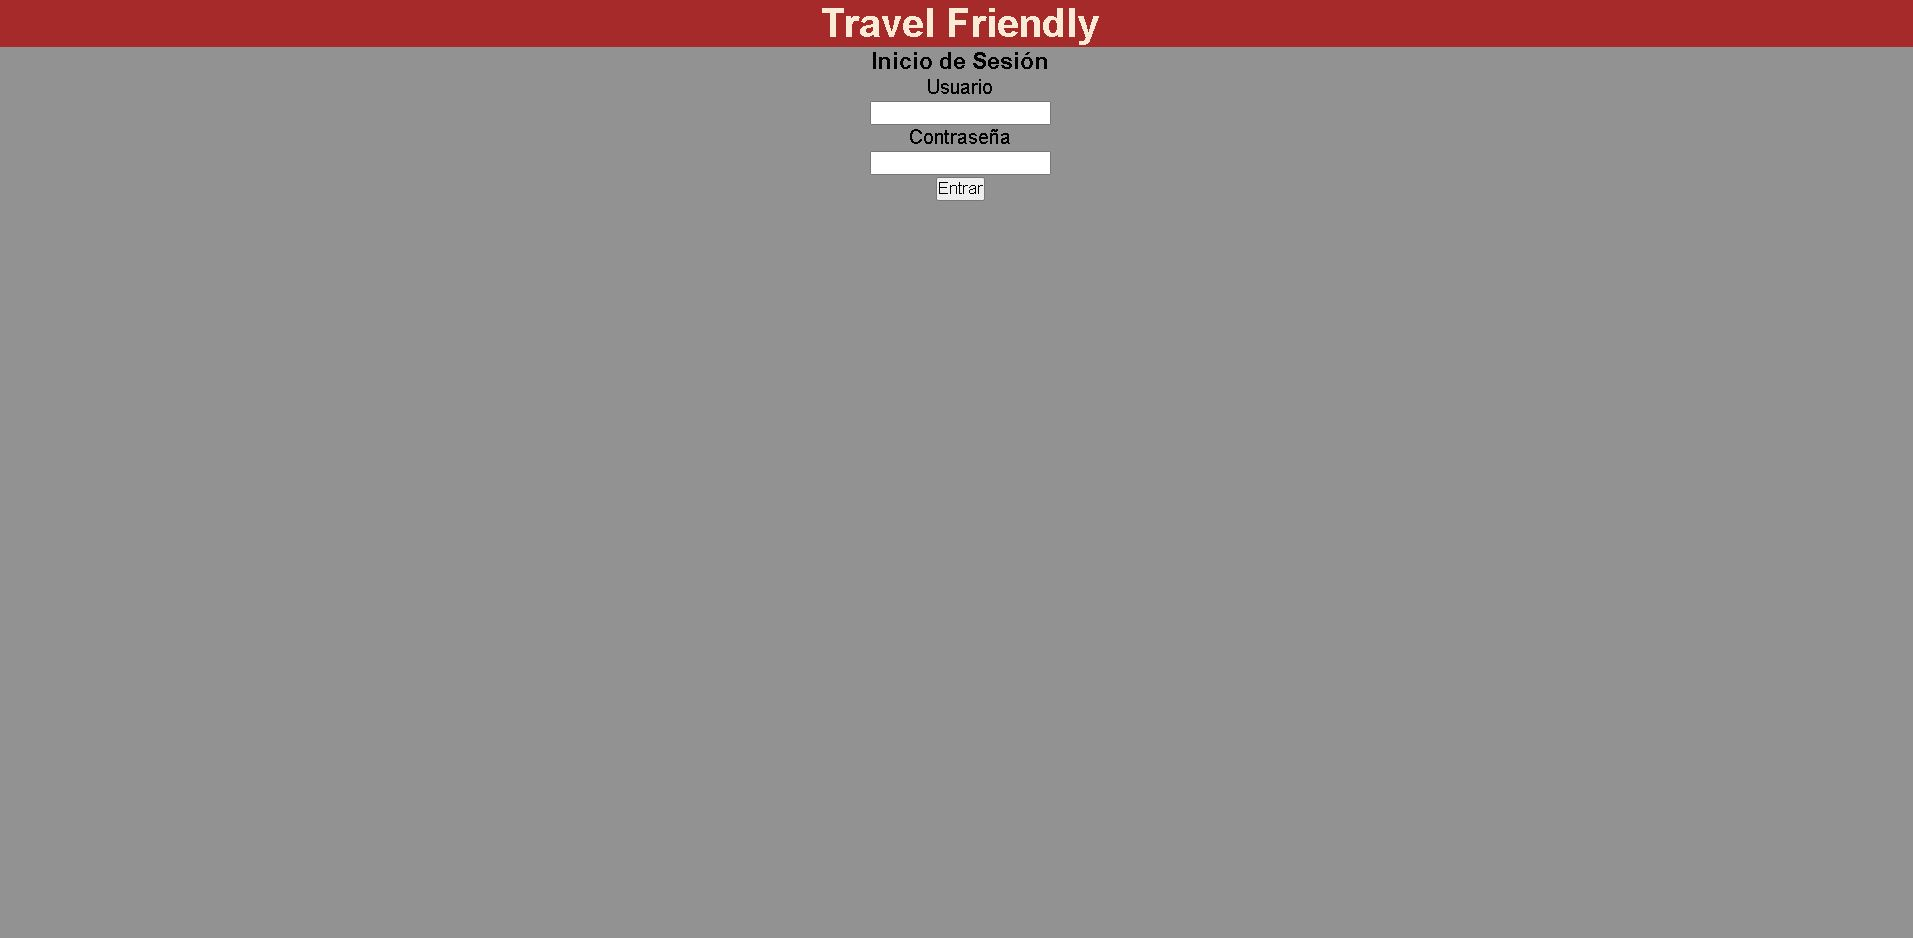
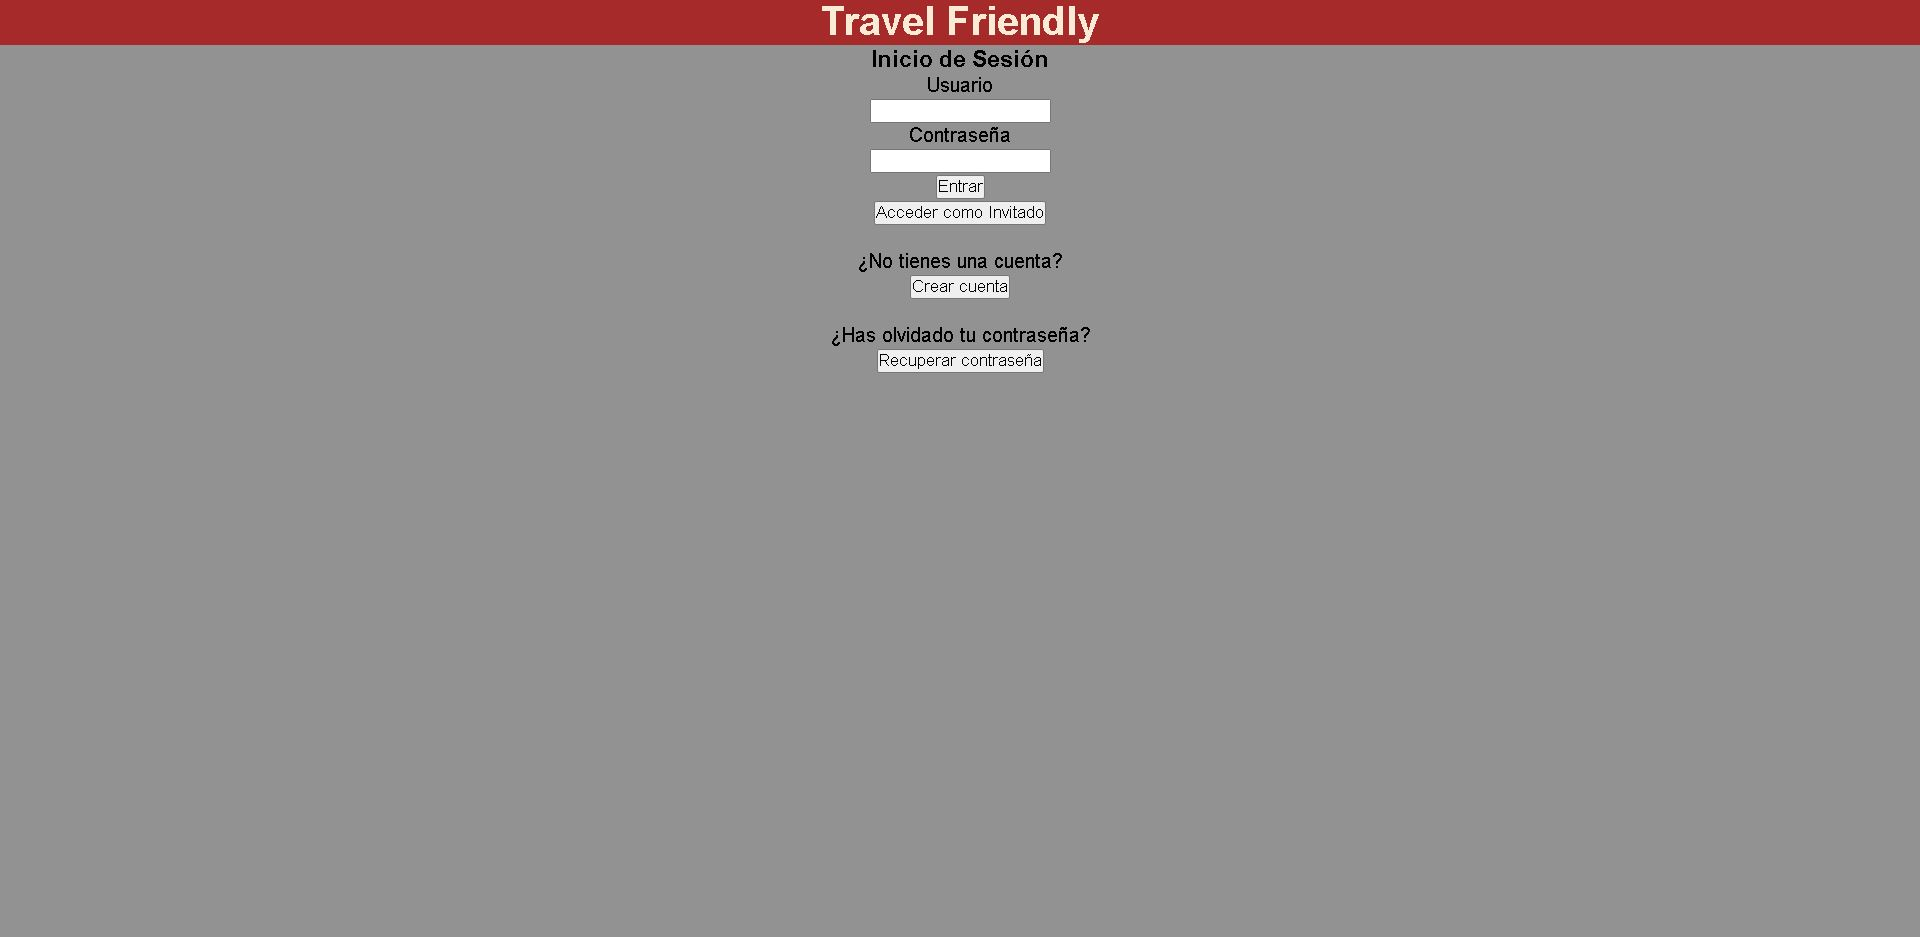
readme actualizadp

Changed region(s): [[0.0, 0.0, 1.0, 0.2476], [0.4318, 0.2785, 0.5551, 0.4023]]

diff --git a/README.md b/README.md
@@ -37,7 +37,6 @@ Funcionalidades servicio interno:
 3. Generar reserva en el historial del usuario, al adquirir un sitio en un viaje.
 4. Chat entre conductor y usuario.
 
-## Fase_2
 ### Diagrama_E-R
 ![Image Text](https://github.com/MegaTrece/DAD_TravelFriendly/blob/main/esquemas/ER.jfif)
 
@@ -47,15 +46,51 @@ Funcionalidades servicio interno:
 ### Capturas de pantalla
 ![Image_Text](https://github.com/MegaTrece/DAD_TravelFriendly/blob/main/esquemas/login.JPG)
 
-Actualmente en la fase 2, con meter un usuario y una contraseña, genera el usuario para navegar por la app (y lo guarda en la BD).
+Ya en la fase 3, se necesita hacer log in para utilizar la aplicación. También se da la opción de entrar en modo invitado, crear una cuenta y recuperarla
 
 ![Image_Text](https://github.com/MegaTrece/DAD_TravelFriendly/blob/main/esquemas/main.JPG)
 
 Es una página de bienvenida, la aplicación saluda usando el nombre del usuario.
 
+![Image_Text](https://github.com/MegaTrece/DAD_TravelFriendly/blob/main/esquemas/invitado.JPG)
+
+Se puede acceder como invitado.
+
+![Image_Text](https://github.com/MegaTrece/DAD_TravelFriendly/blob/main/esquemas/invitadoBuscador.JPG)
+
+En modo invitado, solo permite ver los viajes disponibles en el buscador, pero para comprarlo, solicitará que se inicie sesión.
+
+![Image_Text](https://github.com/MegaTrece/DAD_TravelFriendly/blob/main/esquemas/contraCorreo.JPG)
+
+Para recuperar la cuenta, se solicitará el correo con el que se inició sesión.
+
+![Image_Text](https://github.com/MegaTrece/DAD_TravelFriendly/blob/main/esquemas/contraCodigo.JPG)
+
+Después, se solicitará el código de recuperación que se ha mandado al correo.
+
+![Image_Text](https://github.com/MegaTrece/DAD_TravelFriendly/blob/main/esquemas/correoContra.JPG)
+
+Este es el correo de recuperación.
+
+![Image_Text](https://github.com/MegaTrece/DAD_TravelFriendly/blob/main/esquemas/contraNueva.JPG)
+
+Si el correo es correcto, se pide insertar una nueva contraseña.
+
 ![Image_Text](https://github.com/MegaTrece/DAD_TravelFriendly/blob/main/esquemas/buscador.JPG)
 
 Permite buscar viajes publicados en la web (por lo que están almacenados en la BD) y comprar un sitio en ese viaje.
+
+![Image_Text](https://github.com/MegaTrece/DAD_TravelFriendly/blob/main/esquemas/correoViaje.JPG)
+
+Ahora, al comprar un viaje, se envía un correo con los detalles del viaje.
+
+![Image_Text](https://github.com/MegaTrece/DAD_TravelFriendly/blob/main/esquemas/descargarPDF.JPG)
+
+Es una página de bienvenida, la aplicación saluda usando el nombre del usuario.
+
+![Image_Text](https://github.com/MegaTrece/DAD_TravelFriendly/blob/main/esquemas/pdf.JPG)
+
+Este es el PDF.
 
 ![Image_Text](https://github.com/MegaTrece/DAD_TravelFriendly/blob/main/esquemas/publicar.JPG)
 
@@ -78,9 +113,15 @@ Muestra los viajes que ha publicado el usuario y los que ha comprado
 Permite publicar una opinión sobre el usuario/conductor (y guardar en la BD) que ha comprado/publicado el viaje.
 
 ### Diagrama de pantallas
-![Image_Text](https://github.com/MegaTrece/DAD_TravelFriendly/blob/main/esquemas/diagrama.png)
+![Image_Text](https://github.com/MegaTrece/DAD_TravelFriendly/blob/main/esquemas/diagramaF3.png)
 
 ## Fase_3
+## Interfaz Servicio Interno
+En un inicio, el servicio interno iba a incluir la funcionalidad tanto del correo electrónico como la de la generación de un PDF con los detalles del viaje comprado. Ambas funcionalidades están implementadas, pero por detalles de la implementación, el PDF no se pudo poner en el proceso separado del Servicio Interno.
+
+En el repositorio se incluyen ambos proyectos que se ejecutan por separado. Para poder comunicar el servicio web y el servicio interno, se ha implementado el servicio de RabbitMQ. COn esto, se tiene una clase Publisher en el servicio web, que manda mensajes a la cola que se ha definido. Ya en el proyecto del Servicio Interno, se tiene un script Consumer, que escucha en la cola de mensajes.
+
+Se manda mensajes al Servicio Interno cuando es necesario mandar un email, en el propio mensaje se envían los datos necesarios para generarlos. El PDF se ejecuta como un servicio dentro del proyecto web.
 ## Generación del jar
 Para la generación del jar podemos hacerlo por el IDE:  Run as ...> Maven install lo que nos generará un Fichero : `Fichero <nombreproyecto>_<version>.jar` en la carpeta target.
 También podemos hacerlo de manera más directa mediante línea de comandos : 
